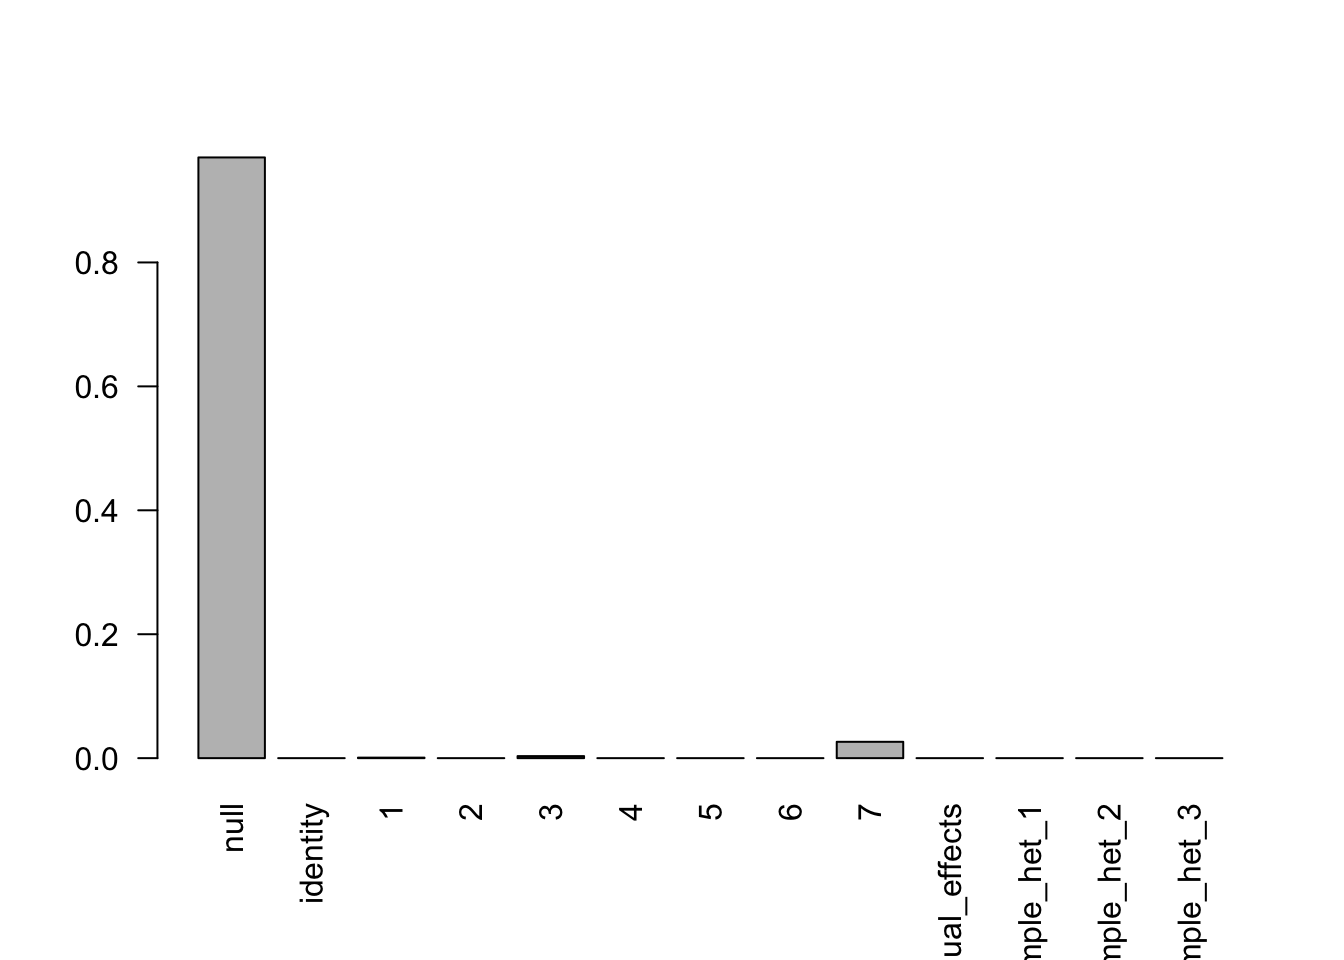
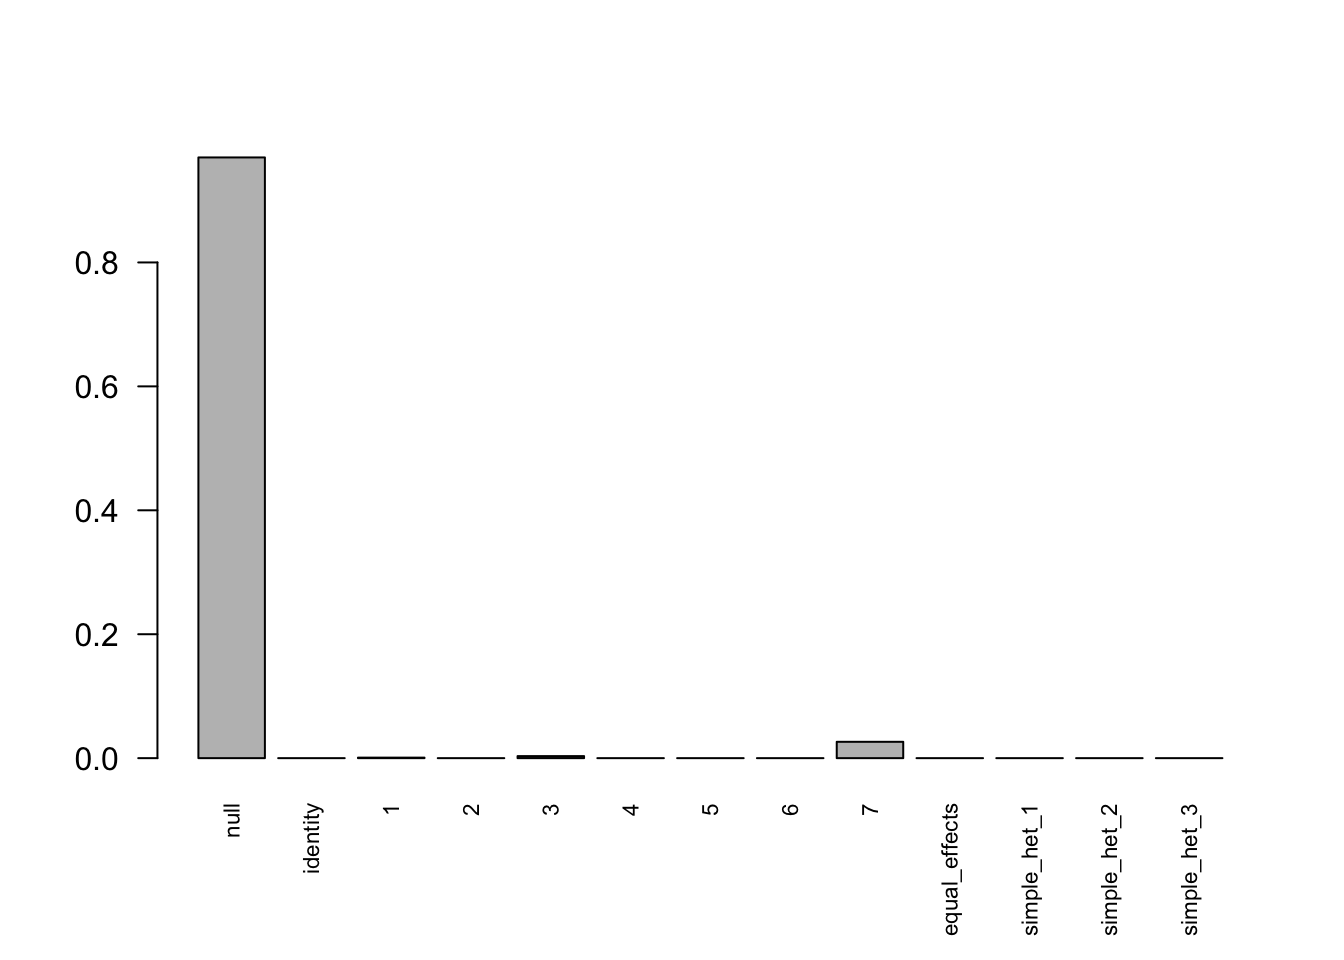
Build site.

diff --git a/docs/CompareMeanNonSignal.html b/docs/CompareMeanNonSignal.html
@@ -319,9 +319,11 @@ div.section {
 
 <!-- Update knitr chunk options -->
 <!-- Insert the date the file was last updated -->
-<p><strong>Last updated:</strong> 2018-01-12</p>
+<p><strong>Last updated:</strong> 2018-05-16</p>
 <!-- Insert the R version (Git commit SHA1) if Git repository exists and R
  package git2r is installed -->
+<p><strong>Code version:</strong> cdc53c9</p>
+<pre><code>Loading required package: ashr</code></pre>
 <div id="simulation-without-signal" class="section level1">
 <h1>Simulation without signal</h1>
 <p><span class="math display">\[c_{j} = \mu_{j} 1\]</span> <span class="math display">\[\hat{c}_{j} \sim N_{R}(c_{j}, \frac{1}{2}I)\]</span> Let L be the contrast matrix, which comparing each condition with the mean. <span class="math display">\[L = \left(\begin{array}{c c c c}
@@ -333,7 +335,7 @@ div.section {
 <p>Therefore, <span class="math display">\[\hat{\delta}_{j} = L\hat{c}_{j} \sim N_{R-1}(0, \frac{1}{2}LL&#39;)\]</span></p>
 <p>We first generate the data:</p>
 <pre class="r"><code>set.seed(1)
-data = sim(nsamp = 10000, ncond = 8)</code></pre>
+data = sim_contrast1(nsamp = 10000, ncond = 8)</code></pre>
 </div>
 <div id="mash-contrast-model" class="section level1">
 <h1>Mash contrast model</h1>
@@ -353,30 +355,30 @@ mash_data_L = mash_set_data_contrast(mash_data, L)</code></pre>
 <p>Fit <code>mashcontrast</code> model</p>
 <pre class="r"><code>mashcontrast.model = mash(mash_data_L, U.c, algorithm.version = &#39;R&#39;)</code></pre>
 <pre><code> - Computing 10000 x 169 likelihood matrix.
- - Likelihood calculations took 1.15 seconds.
+ - Likelihood calculations took 1.05 seconds.
  - Fitting model with 169 mixture components.
- - Model fitting took 2.06 seconds.
+ - Model fitting took 1.94 seconds.
  - Computing posterior matrices.
- - Computation allocated took 0.09 seconds.</code></pre>
+ - Computation allocated took 0.05 seconds.</code></pre>
 <pre class="r"><code>length(get_significant_results(mashcontrast.model))</code></pre>
 <pre><code>[1] 0</code></pre>
 <p>There is no discovery, which is as we expected. The true deviations from mean are zero for all samples.</p>
-<pre class="r"><code>barplot(get_estimated_pi(mashcontrast.model),las = 2)</code></pre>
+<pre class="r"><code>barplot(get_estimated_pi(mashcontrast.model),las = 2, cex.names = 0.7)</code></pre>
 <p><img src="figure/CompareMeanNonSignal.Rmd/unnamed-chunk-8-1.png" width="672" style="display: block; margin: auto;" /></p>
 </div>
 <div id="subtract-mean-directly" class="section level1">
 <h1>Subtract mean directly</h1>
-<p>If we subtract the mean from the data directly, ignoring the correlation structure. <span class="math display">\[Var(\hat{c}_{j,r}-\bar{\hat{c}_{j}}) = \frac{1}{2} + \frac{1}{2R}\]</span></p>
+<p>If we subtract the mean from the data directly, ignoring the correlation structure. <span class="math display">\[Var(\hat{c}_{j,r}-\bar{\hat{c}_{j}}) = \frac{1}{2} - \frac{1}{2R}\]</span></p>
 <pre class="r"><code>Indep.data = mash_set_data(Bhat = (data$Chat - apply(data$Chat,1, mean))[,1:7],
-                           Shat = matrix(sqrt(0.5+1/(8*2)), nrow(data$Chat), ncol(data$Chat)-1))
+                           Shat = matrix(sqrt(0.5-1/(8*2)), nrow(data$Chat), ncol(data$Chat)-1))
 U.c = cov_canonical(mash_data_L)
 Indep.model = mash(Indep.data, U.c, algorithm.version = &#39;R&#39;)</code></pre>
 <pre><code> - Computing 10000 x 169 likelihood matrix.
- - Likelihood calculations took 0.76 seconds.
+ - Likelihood calculations took 0.86 seconds.
  - Fitting model with 169 mixture components.
- - Model fitting took 1.62 seconds.
+ - Model fitting took 2.05 seconds.
  - Computing posterior matrices.
- - Computation allocated took 0.04 seconds.</code></pre>
+ - Computation allocated took 0.08 seconds.</code></pre>
 <pre class="r"><code>length(get_significant_results(Indep.model))</code></pre>
 <pre><code>[1] 0</code></pre>
 <p>There are no false positives.</p>
@@ -388,9 +390,9 @@ Indep.model = mash(Indep.data, U.c, algorithm.version = &#39;R&#39;)</code></pre
 <h1>Session information</h1>
 <!-- Insert the session information into the document -->
 <pre class="r"><code>sessionInfo()</code></pre>
-<pre><code>R version 3.4.3 (2017-11-30)
+<pre><code>R version 3.4.4 (2018-03-15)
 Platform: x86_64-apple-darwin15.6.0 (64-bit)
-Running under: macOS High Sierra 10.13.2
+Running under: macOS High Sierra 10.13.4
 
 Matrix products: default
 BLAS: /Library/Frameworks/R.framework/Versions/3.4/Resources/lib/libRblas.0.dylib
@@ -403,19 +405,20 @@ attached base packages:
 [1] stats     graphics  grDevices utils     datasets  methods   base     
 
 other attached packages:
-[1] assertthat_0.2.0 mvtnorm_1.0-6    plyr_1.8.4       ashr_2.2-3      
+[1] mashr_0.2-8 ashr_2.2-7 
 
 loaded via a namespace (and not attached):
- [1] Rcpp_0.12.14      knitr_1.17        magrittr_1.5     
- [4] REBayes_1.2       MASS_7.3-47       doParallel_1.0.11
+ [1] Rcpp_0.12.16      knitr_1.20        magrittr_1.5     
+ [4] REBayes_1.3       MASS_7.3-50       doParallel_1.0.11
  [7] pscl_1.5.2        SQUAREM_2017.10-1 lattice_0.20-35  
-[10] foreach_1.4.4     stringr_1.2.0     tools_3.4.3      
-[13] parallel_3.4.3    grid_3.4.3        htmltools_0.3.6  
-[16] iterators_1.0.9   yaml_2.1.16       rprojroot_1.2    
-[19] digest_0.6.13     Matrix_1.2-12     codetools_0.2-15 
-[22] evaluate_0.10.1   rmarkdown_1.8     stringi_1.1.6    
-[25] compiler_3.4.3    Rmosek_8.0.69     backports_1.1.2  
-[28] truncnorm_1.0-7  </code></pre>
+[10] foreach_1.4.4     plyr_1.8.4        stringr_1.3.0    
+[13] tools_3.4.4       parallel_3.4.4    grid_3.4.4       
+[16] rmeta_3.0         git2r_0.21.0      htmltools_0.3.6  
+[19] iterators_1.0.9   assertthat_0.2.0  yaml_2.1.19      
+[22] rprojroot_1.3-2   digest_0.6.15     Matrix_1.2-14    
+[25] codetools_0.2-15  evaluate_0.10.1   rmarkdown_1.9    
+[28] stringi_1.2.2     compiler_3.4.4    Rmosek_8.0.69    
+[31] backports_1.1.2   mvtnorm_1.0-7     truncnorm_1.0-8  </code></pre>
 </div>
 
 <!-- Adjust MathJax settings so that all math formulae are shown using
